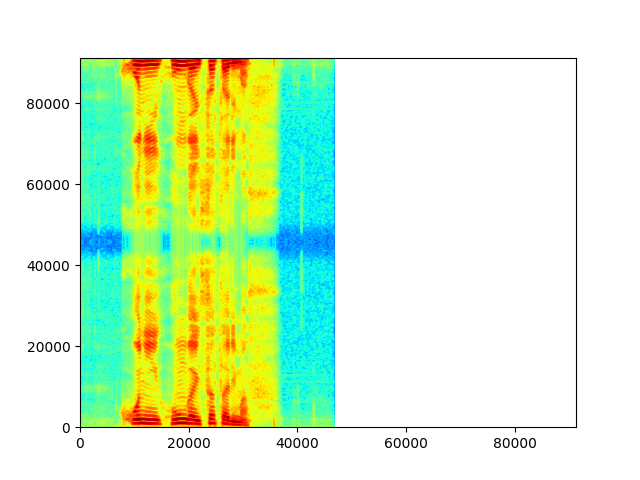
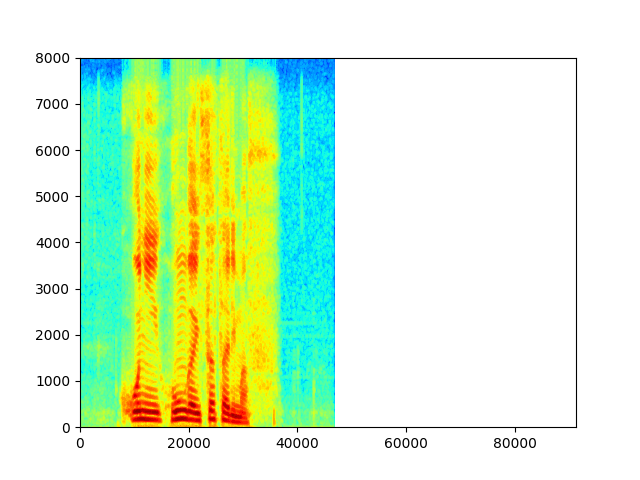
complete: exp1_mixer

Changed region(s): [[0.0312, 0.125, 0.5312, 0.9062], [0.0625, 0.0938, 0.125, 0.1562]]

diff --git a/dgt.py b/dgt.py
@@ -28,7 +28,7 @@ def db(x, dBref):
     y = 20 * np.log10(x / dBref)                   # 変換式
     return y                                       # dB値を返す
 
-def plot(x, X, cx, w, a, b, N, L):
+def plot(x, X, cx, w, a, b, N, L, fs):
     t = np.linspace(0, L, L)
 
     # spectrogram
@@ -41,7 +41,7 @@ def plot(x, X, cx, w, a, b, N, L):
 
     # プロット用パラメータ
     x_max = L
-    y_max = L
+    y_max = L / 2
     X = X[0:(int)(y_max/b), 0:(int)(x_max/a)]
     print(len(X))
     print(np.linspace(0, y_max, N))
@@ -60,12 +60,11 @@ def plot(x, X, cx, w, a, b, N, L):
     ax3.plot(w)
 
     # 解析結果
-    c = ax5.contourf(np.linspace(0, x_max, (int)(x_max/a)), np.linspace(0, y_max, (int)(y_max/b)), np.abs(X2), 50, cmap='jet')
-    c = ax4.contourf(np.linspace(0, x_max, (int)(x_max/a)), np.linspace(0, y_max, (int)(y_max/b)), np.abs(X), 20, locator=ticker.LogLocator(), cmap='jet')
+    c = ax5.contourf(np.linspace(0, x_max, (int)(x_max/a)), np.linspace(0, int(fs/2), int(y_max/b)), np.abs(X2), 50, cmap='jet')
+    c = ax4.contourf(np.linspace(0, x_max, (int)(x_max/a)), np.linspace(0, int(fs/2), int(y_max/b)), np.abs(X), 20, locator=ticker.LogLocator(), cmap='jet')
     fig4.colorbar(c)
 
     # 逆変換結果
-    t = np.linspace(0, len(cx), len(cx))
     ax6.plot(t, cx)
 
     plt.show()
@@ -218,7 +217,7 @@ if __name__ == "__main__":
     w = hammig_w(500)
 
     a = 50
-    b = 50
+    b = 25
     start = 5000
     end = 20000
     x, fs = load_wav("MSK.20100405.M.CS05.wav", start, end)
@@ -298,4 +297,4 @@ if __name__ == "__main__":
         print("l:" + str(l) + ", x[l]:" + str(x[l]) + ", cx[l]:" + str(cx[l]))
 
     # プロット
-    plot(x, X, cx, w, a, b, N, L)
+    plot(x, X, cx, w, a, b, N, L, fs)

diff --git a/dgt_exp1_mixer.py b/dgt_exp1_mixer.py
@@ -31,6 +31,7 @@ M = int(L / b)
 if fs1 != fs2:
     print("Error: fs1 != fs2")
     exit(1)
+fs = fs1
 
 # 各音声を順変換
 dgt1 = mydgt.DGT(len(w), a, b, L)
@@ -51,6 +52,6 @@ cx = idgt.idgt(X, w)
 # 逆変換結果をwavファイルに出力
 wio.write("mixed_wave.wav", fs1, np.real(cx) * pow(10, -4))
 
-mydgt.plot(x1, X1, cx, w, a, b, N, L)
-mydgt.plot(x2, X2, cx, w, a, b, N, L)
-mydgt.plot(x2, X, cx, w, a, b, N, L)
+mydgt.plot(x1, X1, cx, w, a, b, N, L, fs)
+mydgt.plot(x2, X2, cx, w, a, b, N, L, fs)
+mydgt.plot(x2, X, cx, w, a, b, N, L, fs)
